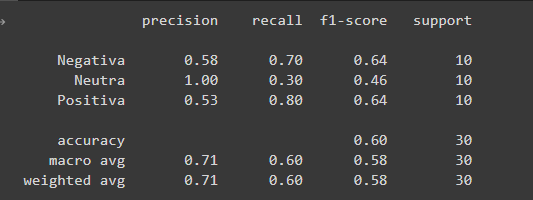
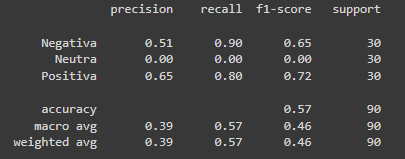
fix: melhorias na documentação do modelo

diff --git a/docs/Dados/index.md b/docs/Dados/index.md
@@ -44,15 +44,18 @@ Na imagem acima, é possível visualizar a DAG desenvolvida para a coleta de dad
 ### Análise exploratória
 Ao concluir a carga incremental do CEPEA, foi possível obter 7639 notícias, desde Julho de 2006 até a presente data, conforme o gráfico abaixo:
 <iframe width=700, height=500 frameBorder=0 src="images/quantidade_noticias_cepea.html"></iframe> 
+<figcaption>Gráfico de notícias coletadas da plataforma CEPEA. <br> (Fonte: Autores, 2023)</figcaption>
 
 Já o Notícias Agricolas, foi possível obter 23.601 notícias, conforme a imagem abaixo:
 <iframe width=700, height=500 frameBorder=0 src="images/quantidade_noticias_agricolas.html"></iframe> 
+<figcaption>Gráfico de notícias coletadas do portal Notícias Agricolas. <br> (Fonte: Autores, 2023)</figcaption>
 
 Para iniciar o tratamento das notícias, de maneira que fosse possível filtrar apenas as notícias referentes a soja, foi necessário realizar uma análise exploratória dos dados, para entender quantas notícias houvesse Soja mencionada, ao menos duas vezes. No Dataset do CEPEA, foi possível encontrar 954 notícias que tivesse a palavra Soja mencionada ao menos duas vezes, conforme a imagem abaixo:
 <iframe width=700, height=500 frameBorder=0 src="images/soja.html"></iframe>
 
 No Dataset do Notícias Agricolas, foi possível encontrar 3.358 notícias que tivesse a palavra Soja mencionada ao menos duas vezes, conforme a imagem abaixo:
 <iframe width=700, height=500 frameBorder=0 src="images/soja_na.html"></iframe>
+<figcaption>Gráfico de notícias que mencionam a palavra Soja. <br> (Fonte: Autores, 2023)</figcaption>
 
 ### Rotulação dos dados
 Para realizar a rotulação dos dados, foi utilizado a ferramenta [Label Studio](https://labelstud.io/), que é uma plataforma de marcação de dados (data labeling) de código aberto que permite criar tarefas de marcação de forma simples e escalável. 
@@ -62,54 +65,64 @@ Devido ao grande volume, a equipe optou por classificar apenas as notícias do C
 
 Foi realizado o deployment da ferramenta Label Studio utilizando o serviço de Kubernetes da [Azure](https://azure.microsoft.com/pt-br/), e a rotulação dos dados foi realizada por 4 pessoas do time, conforme a imagem abaixo:
 ![Rotulação dos dados](images/labelstudio_rotulacao.jfif "Momento onde o time atingiu 599 notícias rotuladas")
+    <figcaption>Imagens da plataforma Label Studio. <br> (Fonte: Autores, 2023)</figcaption>
 
 ### Criação do modelo
 Após a rotulação dos dados, foi necessário realizar o treinamento do modelo de Machine Learning, para que fosse possível criar o *Motor de Classificação* do Radar da Soja, que é o responsável por classificar as notícias em Positivo, Neutro ou Negativo. Com a necessidade de desenvolvermos um modelo utilizando BERT (através de redes neurais), o time optou por desenvolver um modelo baseline, para servir de efeito de comparação, utilizando o modelo [Naive Bayes Multinomial](https://scikit-learn.org/stable/modules/naive_bayes.html), que é um modelo de classificação probabilístico baseado no teorema de Bayes, que assume que a presença de uma característica em uma classe não está relacionada com a presença de qualquer outra característica.
 
 #### Modelo Naive Bayes Multinomial (Baseline)
 O modelo Naive Bayes Multinomial foi escolhido por ser um modelo de classificação probabilístico, que é um modelo simples e rápido, que pode ser utilizado como baseline para comparação com outros modelos mais complexos. <br>
+
 No Naive Bayes Multinomial, determinamos a probabilidade de uma notícia pertencer a uma classe, baseado na frequência de palavras que aparecem na notícia.  <br>
-Para o treinamento do modelo, foi utilizado o dataset rotulado (421 notícias), sendo separado em 80% para treino (336 notícias) e 20% (101 notícias) para validação.  <br>
+Para o treinamento do modelo, foi utilizado o dataset rotulado (701 notícias). <br>
+Sendo separado em 80% para treino (560 notícias) e 20% (130 notícias) para validação.  <br>
+
 Após o treinamento, foi possível obter o seguinte reporte de classificação:
 
 <figure>
     <img src="images/modelo_naive_treino.png">
-    <figcaption>Resultado de classificação do modelo no conjunto de teste. (Fonte: Autores, 2023)</figcaption>
+    <figcaption>Resultado de classificação do modelo no conjunto de teste. <br> (Fonte: Autores, 2023)</figcaption>
 </figure>
     
 Enquanto que para o conjunto de validação, foi possível obter o seguinte reporte de classificação:
 <figure>
     <img src="images/modelo_naive_validacao.png">
-    <figcaption>Resultado de classificação do modelo no conjunto de validação. (Fonte: Autores, 2023)</figcaption>
+    <figcaption>Resultado de classificação do modelo no conjunto de validação. <br> (Fonte: Autores, 2023)</figcaption>
 </figure>
 
-Após o treinamento do modelo, foi possível obter uma acurácia de 0.62 no conjunto de teste, e 0.60 no conjunto de validação, o que mostra que o modelo possui uma boa capacidade de generalização, e que pode ser utilizado como baseline para comparação com outros modelos mais complexos.
+Após o treinamento do modelo, foi possível obter uma acurácia de 0.65 no conjunto de teste, e 0.57 no conjunto de validação, o que mostra que o modelo possui uma capacidade média de generalização, e que pode ser utilizado como baseline para comparação com outros modelos mais complexos.
 
 #### Modelo BERT
 Com a crescente utilização de modelos de Deep Learning para a resolução de problemas de NLP, o time optou por utilizar o modelo BERT, que é um modelo de Deep Learning desenvolvido pelo Google, que possui uma arquitetura baseada em redes neurais, e que possui um desempenho superior a outros modelos de NLP, como o Naive Bayes Multinomial. <br>
+
 O modelo BERT é utilizado como um modelo pré-treinado, que é treinado em um grande volume de dados, e que pode ser utilizado para resolver problemas de NLP, como classificação de texto, sumarização de texto, entre outros. <br>
+
 Para a aplicação do modelo no projeto, foi necessário realizar o fine-tuning do modelo, que é o processo de treinar o modelo pré-treinado em um conjunto de dados específico para o problema que se deseja resolver. <br>
-Para o treinamento do modelo, foi utilizado o dataset rotulado (421 notícias), sendo separado em 80% para treino (336 notícias) e 20% (101 notícias) para validação.  <br>
+
+Para o treinamento do modelo, foi utilizado o dataset rotulado (701 notícias). <br> Sendo separado em 80% para treino (562 notícias) e 20% (112 notícias) para validação.  <br>
+
 Após o treinamento, foi possível obter o seguinte reporte de classificação para o conjunto de teste:
 
 
 <figure>
     <img src="images/treinamento_bert.jpg">
-    <figcaption>Resultado de classificação do modelo no conjunto de teste.(Fonte: Autores, 2023)</figcaption>
+    <figcaption>Resultado de classificação do modelo no conjunto de teste. <br> (Fonte: Autores, 2023)</figcaption>
 </figure>
 
 <figure>
     <img src="images/validacao_bert.jpg">
-    <figcaption>Resultado de classificação do modelo no conjunto de teste.(Fonte: Autores, 2023)</figcaption>
+    <figcaption>Resultado de classificação do modelo no conjunto de validação. <br> (Fonte: Autores, 2023)</figcaption>
 </figure>
 
 #### Considerações sobre o modelo
 Após o treinamento dos modelos, foi possível obter os seguintes resultados:
 
-| Modelo | Acurácia no conjunto de teste | Acurácia no conjunto de validação | Precisão - Validação| Recall - Validação | F1-Score - Validação |
-| --- | --- | --- | --- | --- | --- |
-| Naive Bayes Multinomial | 0.62 | 0.60 | 0.70 | 0.57 | 0.54 |
-| BERT | 0.76 | 0.70 | 0.72 | 0.70 | 0.68 |
+| Modelo | Quantidade de Notícias | Acurácia (Teste) | Acurácia (Validação) | Precisão <br> (V) | Recall <br> (V) | F1-Score(V) |
+| --- | --- | --- | --- | --- | --- | --- |
+| Naive Bayes Multinomial | 560 | 0.65 | 0.57 | 0.39 | 0.57 | 0.46 |
+| BERT | 701 | 0.75 | 0.78 | 0.78 | 0.78 | 0.77 |
+
+<sub>V*: Conjunto de validação contendo 30 notícias. O mesmo é executado no Naive e BERT para comparação. </sub>
 
 Por se tratar de um modelo de Deep Learning, o BERT possui uma acurácia superior ao Naive Bayes Multinomial, que é um modelo de Machine Learning tradicional. <br>
 Entretanto, o modelo BERT possui uma precisão inferior ao Naive Bayes Multinomial, o que pode ser explicado pela quantidade de dados de treinamento.
